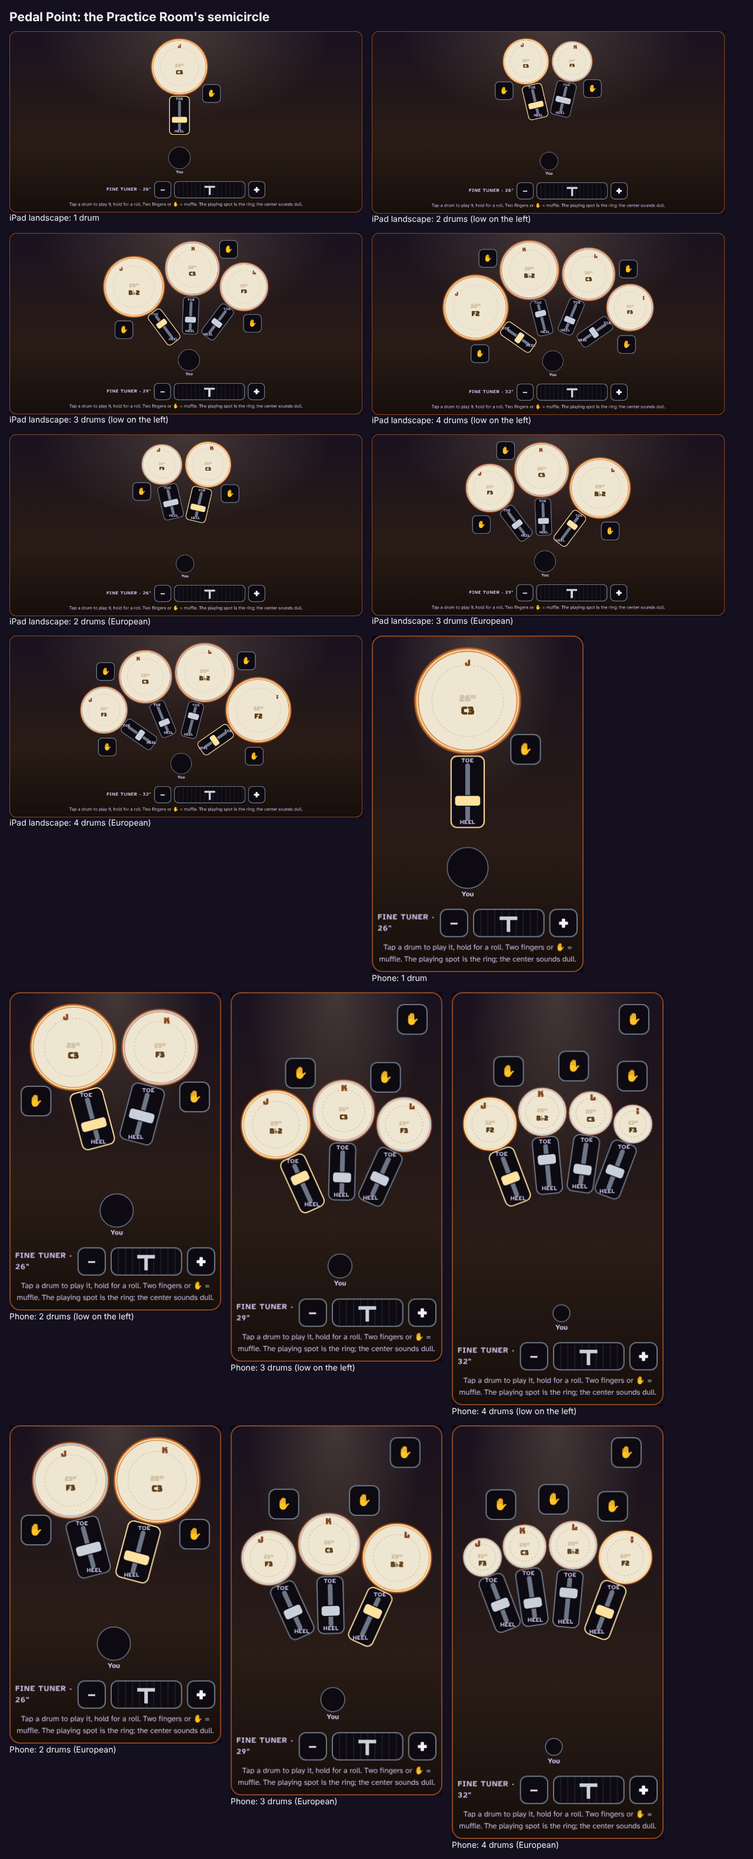
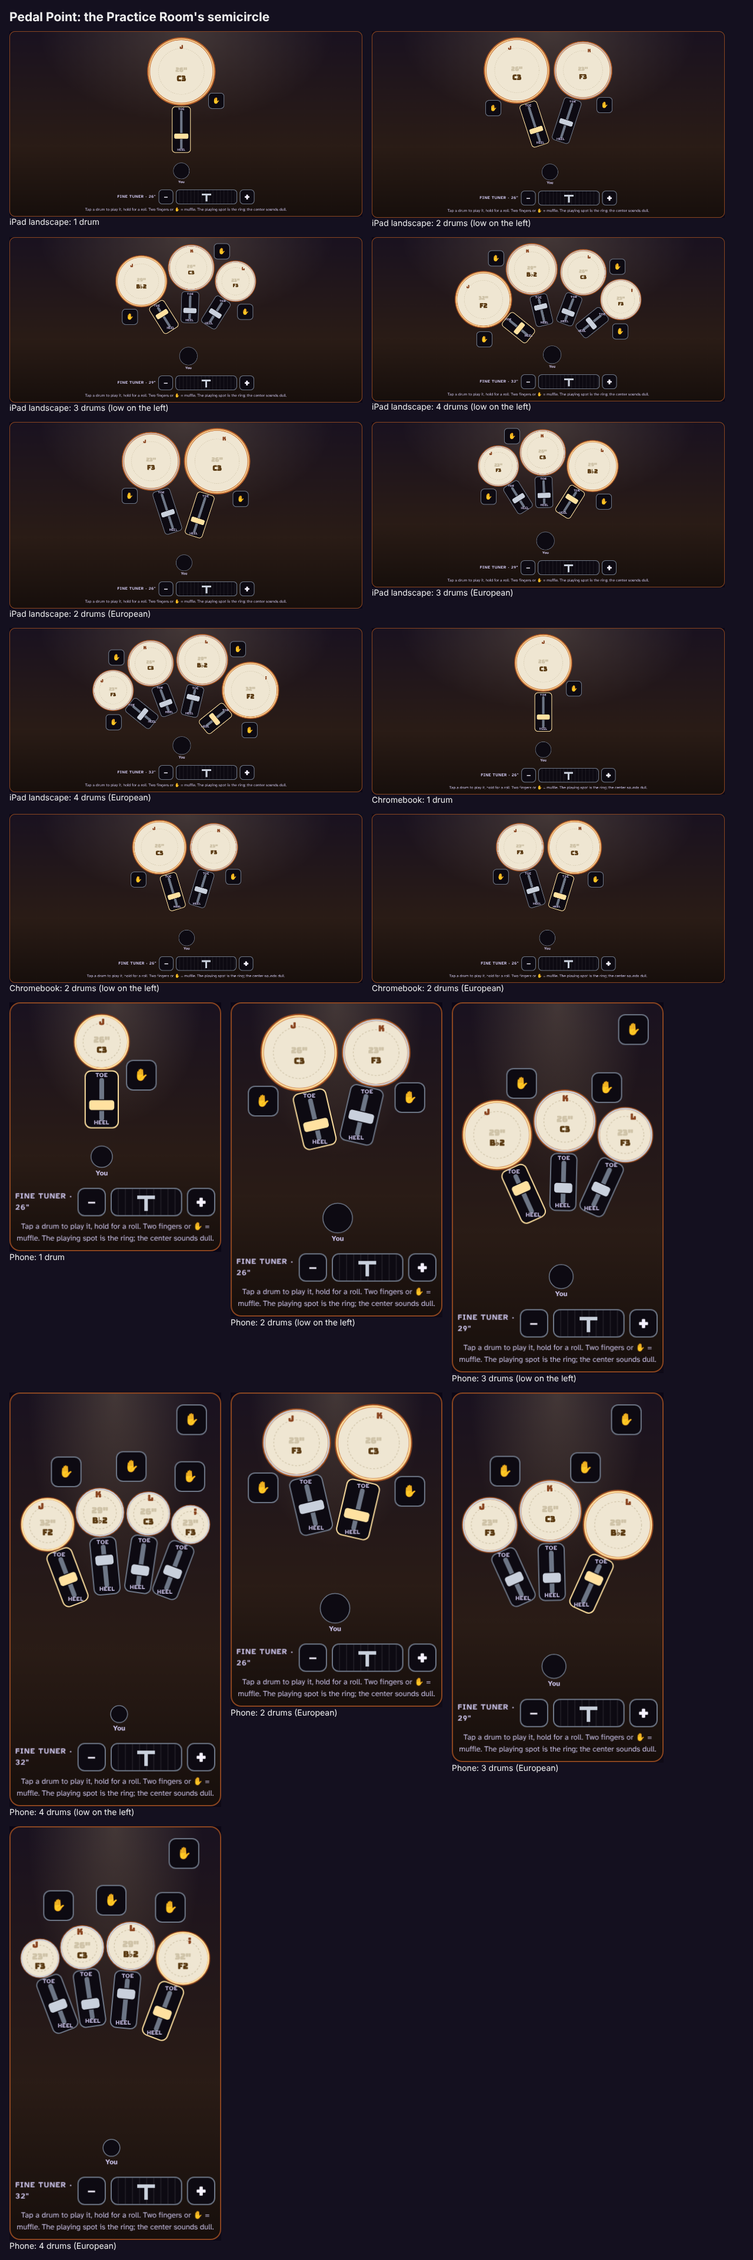
Pedal Point Practice Room: BIG drums with 1 or 2 drums
- Up to ARC.fillN (2) drums, the semicircle's height is the room actually left: from the top of the drums to the
  bottom of the window, less the fine tuner and help line. Never less than maxHMusic with music showing. The whole
  stage fits on screen and the drums use it.
- The pedal and the stool stop growing at ARC.maxPx (200 × 72 px, stool 26 px) and are never under minPx. The
  geometry and overlap checks use the capped sizes. 3–4 drums don't cap and draw exactly as before.
- The head's size label, note and key letter scale with the head (14–40 px).
- It re-fits when the bar or the music above the drums changes size.
- Tests at a Chromebook, an iPad both ways and a phone (1 and 2 drums, US and European): fills the room or the
  width, stage on screen, caps, labels, every semicircle rule. Music: never smaller, the music keeps its height.
  3–4 drums unchanged.
- The Recorded Drums roll test now rolls on the F3 drum, because C3 has one mid take left after the octave-low
  takes were removed.
- GALLERY=1: the semicircle gallery adds 1 and 2 drums at the Chromebook (and iPad landscape at 1180 × 820).
- Docs: FITTING THE SCREEN.

Claude-Session: https://claude.ai/code/session_0124mH3dsFJ8yT3gmHnotTQK

diff --git a/pedal-point/practice.js b/pedal-point/practice.js
@@ -93,20 +93,28 @@
                                  // a screen too narrow for that), a tappable head
     label: 16,                   // px at each end of the pedal for TOE / HEEL (the plate travels between them)
     plate: 18,                   // px: the pedal's plate (along the pedal)
-    maxH: .52, maxHMusic: .36,   // × the window's height: the picture's height (smaller with music showing)
+    maxH: .52, maxHMusic: .36,   // × the window's height: the picture's height (smaller with music showing): 3–4 drums
+    fillN: 2,                    // up to this many drums FILL THE ROOM LEFT: from the top of the drums to the bottom of the
+                                 // window, less the fine tuner and the help line under them (never less than maxHMusic
+                                 // with music showing), so 1 or 2 drums are big
+    maxPx: {pedalL: 200, pedalW: 72, seatR: 26},   // (1–2 drums) the pedal and the stool are for a foot, not to scale:
+                                 // once the drums are big they stop growing at these px
     shrink: .85,                 // a small screen: the gap and the span shrink by up to this before targets do
     pad: 6,                      // px around the picture
   };
   const rad = d => d * Math.PI / 180, deg = r => r * 180 / Math.PI;
   /** the picture for drums of radius rs (inches, left to right) in a box W px wide and at most H px high */
-  function solveArc(rs, W, H) {
+  function solveArc(rs, W, H, {cap = false} = {}) {
     const n = rs.length;
     const build = (s, span, gap, pwPx, tight) => {
-      const w = Math.max(ARC.pedalW, pwPx / s), l = Math.max(ARC.pedalLen, ARC.minPx.pedalL / s), hand = ARC.hand / s;
+      // the pedal and the stool in px: their real size × the scale, at least the finger-sized minimum; capped (big drums)
+      const px = (inch, min, max) => { const v = Math.max(inch * s, min); return cap ? Math.min(v, Math.max(min, max)) : v; };
+      const w = px(ARC.pedalW, pwPx, ARC.maxPx.pedalW) / s, l = px(ARC.pedalLen, ARC.minPx.pedalL, ARC.maxPx.pedalL) / s, hand = ARC.hand / s;
+      const seatR = px(ARC.seatR, 0, ARC.maxPx.seatR) / s;
       const pairs = []; for (let k = 0; k < n - 1; k++) pairs.push(rs[k] + rs[k + 1] + gap);
       const angles = R => pairs.map(c => 2 * Math.asin(Math.min(1, c / (2 * R))));
       const total = R => angles(R).reduce((a, b) => a + b, 0);
-      const base = Math.max(...rs) + ARC.pedalGap + l + ARC.seatGap + ARC.seatR;
+      const base = Math.max(...rs) + ARC.pedalGap + l + ARC.seatGap + seatR;
       let R = base;
       if (n > 1 && total(R) > rad(span)) {               // the span asks for a larger circle: bisect
         let lo = R, hi = R * 50;
@@ -123,13 +131,13 @@
           const toe = [c[0] + u[0] * (r + ARC.pedalGap), c[1] + u[1] * (r + ARC.pedalGap)];
           const heel = [toe[0] + u[0] * l, toe[1] + u[1] * l];
           const side = n === 1 ? 1 : th < -1e-9 ? -1 : 1;                     // the fan's outside (the middle drum: right)
-          return {r, th, c, u, toe, heel, w, l, side};
+          return {r, th, c, u, toe, heel, w, l, side, seatR};
         });
       };
       let ds = place(R), tries = 0;
       while (overlaps(ds) && tries++ < 400) { R *= 1.02; ds = place(R); }
       placeHands(ds, hand, tight);
-      return {R, ds, w, l, hand, span: n > 1 ? deg(ds[n - 1].th - ds[0].th) : 0, limited: n > 1 && deg(ds[n - 1].th - ds[0].th) < span - 3};
+      return {R, ds, w, l, hand, seatR, span: n > 1 ? deg(ds[n - 1].th - ds[0].th) : 0, limited: n > 1 && deg(ds[n - 1].th - ds[0].th) < span - 3};
     };
     const box = g => {
       let x0 = Infinity, y0 = Infinity, x1 = -Infinity, y1 = -Infinity;
@@ -139,7 +147,7 @@
         rectCorners(d.toe, d.heel, d.w).forEach(p => add(p[0], p[1]));
         add(d.hand.c[0] - d.hand.s / 2, d.hand.c[1] - d.hand.s / 2); add(d.hand.c[0] + d.hand.s / 2, d.hand.c[1] + d.hand.s / 2);
       });
-      add(-ARC.seatR, -ARC.seatR); add(ARC.seatR, ARC.seatR + g.youH);
+      add(-g.seatR, -g.seatR); add(g.seatR, g.seatR + g.youH);
       return {x0, y0, x1, y1, w: x1 - x0, h: y1 - y0};
     };
     const fit = (span, gap, pwPx, tight) => {                         // the largest scale (px per inch) whose picture fits; if none fits
@@ -167,8 +175,8 @@
     }
     const s = g.s, ox = g.box.x0, oy = g.box.y0, P = p => [(p[0] - ox) * s + ARC.pad, (p[1] - oy) * s + ARC.pad];
     return {
-      s, R: g.R, span: g.span, limited: g.limited || g.tight, W: Math.ceil(g.box.w * s + 2 * ARC.pad), H: Math.ceil(g.box.h * s + 2 * ARC.pad),
-      seat: {c: P([0, 0]), r: ARC.seatR * s},
+      s, R: g.R, span: g.span, limited: g.limited || g.tight, over: g.box.h * s + 2 * ARC.pad > H + 1, room: H, W: Math.ceil(g.box.w * s + 2 * ARC.pad), H: Math.ceil(g.box.h * s + 2 * ARC.pad),
+      seat: {c: P([0, 0]), r: g.seatR * s},
       drums: g.ds.map(d => ({c: P(d.c), r: d.r * s, th: deg(d.th), toe: P(d.toe), heel: P(d.heel), w: d.w * s, l: d.l * s, u: d.u,
         hand: {c: P(d.hand.c), s: ARC.hand}})),
     };
@@ -187,7 +195,7 @@
     const m = .4;                                        // inches of air
     for (let i = 0; i < ds.length; i++) {
       const a = ds[i];
-      if (segDist([0, 0], a.toe, a.heel) < ARC.seatR + a.w / 2 + m) return true;
+      if (segDist([0, 0], a.toe, a.heel) < a.seatR + a.w / 2 + m) return true;
       for (let j = 0; j < ds.length; j++) {
         const b = ds[j];
         if (i !== j && segDist(b.c, a.toe, a.heel) < b.r + a.w / 2 + m) return true;
@@ -201,7 +209,7 @@
   function placeHands(ds, hand, tight) {
     const rot = (u, t) => [u[0] * Math.cos(t) - u[1] * Math.sin(t), u[0] * Math.sin(t) + u[1] * Math.cos(t)];
     const free = (d, c) => {
-      if (Math.hypot(c[0], c[1]) < ARC.seatR + hand * .75) return false;
+      if (Math.hypot(c[0], c[1]) < d.seatR + hand * .75) return false;
       return ds.every(b => (b === d || Math.hypot(c[0] - b.c[0], c[1] - b.c[1]) >= b.r + hand * .72) &&
         segDist(c, b.toe, b.heel) >= hand * .72 + b.w / 2 && (!b.hand || b === d || Math.hypot(c[0] - b.hand.c[0], c[1] - b.hand.c[1]) >= hand * 1.1));
     };
@@ -228,12 +236,21 @@
      pointing at the seat; one SVG for the shapes, the ✋ buttons and "out of tune" badges on top) ================= */
   let L = null;                                         // the current picture (solveArc, in px inside #prDrums)
   const fx = n => n.toFixed(1);
+  /** the picture's height: 3–4 drums = ARC.maxH (maxHMusic with music); 1–2 drums (fillN) = the room left on screen from
+      the top of the drums (on the page) to the bottom of the window, less what the stage shows under them */
+  function roomH(n, music) {
+    const cap = Math.max(240, innerHeight * (music ? ARC.maxHMusic : ARC.maxH));
+    if (n > ARC.fillN) return cap;
+    const box = $('prDrums'), st = $('prStage'), top = box.getBoundingClientRect().top + scrollY;
+    const under = st.getBoundingClientRect().bottom - box.getBoundingClientRect().bottom;   // the fine tuner, the help, padding
+    const room = innerHeight - top - under - ARC.pad;
+    return Math.max(music ? cap : 240, room);
+  }
   function layout() {
     const box = $('prDrums'), W = box.clientWidth;
     if (!W) return null;
-    const music = $('practice').classList.contains('pr-music');
-    const H = Math.max(240, innerHeight * (music ? ARC.maxHMusic : ARC.maxH));
-    const ord = order(), lay = solveArc(ord.map(o => +o.d.id / 2), W, H);
+    const music = $('practice').classList.contains('pr-music'), ord = order(), H = roomH(ord.length, music);
+    const lay = solveArc(ord.map(o => +o.d.id / 2), W, H, {cap: ord.length <= ARC.fillN});
     const dx = Math.max(0, (W - lay.W) / 2), sh = q => [q[0] + dx, q[1]];
     lay.seat.c = sh(lay.seat.c);
     lay.drums.forEach((d, v) => { d.i = ord[v].i; d.id = ord[v].d.id; d.c = sh(d.c); d.toe = sh(d.toe); d.heel = sh(d.heel); d.hand.c = sh(d.hand.c);
@@ -253,7 +270,7 @@
       `<g class="pr-seat" aria-hidden="true"><circle cx="${fx(L.seat.c[0])}" cy="${fx(L.seat.c[1])}" r="${fx(L.seat.r)}"/>` +
       `<text x="${fx(L.seat.c[0])}" y="${fx(L.seat.c[1] + L.seat.r + 13)}" text-anchor="middle">You</text></g>`];
     L.drums.forEach((d, v) => {
-      const [cx, cy] = d.c, r = d.r, away = [-d.u[0], -d.u[1]], fs = Math.max(11, Math.min(22, r * .2));
+      const [cx, cy] = d.c, r = d.r, away = [-d.u[0], -d.u[1]], clampF = v => Math.max(14, Math.min(40, v)), fs = clampF(r * .22), ks = clampF(r * .15);
       svg.push(`<g class="pr-drum" data-i="${d.i}" data-v="${v}">` +
         `<circle class="pr-cue" cx="${fx(cx)}" cy="${fx(cy)}" r="${fx(r + 6)}"/>` +
         `<g class="pr-pedal" data-i="${d.i}" role="slider" tabindex="-1" aria-label="${d.id} inch drum pedal" aria-valuemin="0" aria-valuemax="100" transform="translate(${fx(d.toe[0])} ${fx(d.toe[1])}) rotate(${fx(d.th)})">` +
@@ -265,9 +282,9 @@
         `<g class="pr-head" data-i="${d.i}" role="button" tabindex="-1" aria-label="${d.id} inch drum: tap to play, hold to roll" transform="translate(${fx(cx)} ${fx(cy)})">` +
           `<circle class="pr-rim" r="${fx(r)}"/><circle class="pr-hoop" r="${fx(r * .95)}"/><circle class="pr-skin" r="${fx(r * .92)}"/>` +
           `<circle class="pr-spot" r="${fx(r * .92 * T.TIMPANI.spot)}"/><circle class="pr-ripple" r="${fx(r * .4)}"/>` +
-          `<text class="pr-sz" y="${fx(-fs * .15)}" style="font-size:${fx(fs * .8)}px">${d.id}"</text>` +
+          `<text class="pr-sz" y="${fx(-fs * .15)}" style="font-size:${fx(clampF(fs * .8))}px">${d.id}"</text>` +
           `<text class="pr-note" id="prNote${d.i}" y="${fx(fs * 1.05)}" style="font-size:${fx(fs)}px"></text>` +
-          `<text class="pr-key" x="${fx(away[0] * r * .7)}" y="${fx(away[1] * r * .7)}">${(keys[v] || '').toUpperCase()}</text></g></g>`);
+          `<text class="pr-key" x="${fx(away[0] * r * .7)}" y="${fx(away[1] * r * .7)}" style="font-size:${fx(ks)}px">${(keys[v] || '').toUpperCase()}</text></g></g>`);
     });
     svg.push('</svg>');
     const html = L.drums.map(d => {
@@ -289,12 +306,11 @@
     cancelAnimationFrame(relayT);
     relayT = requestAnimationFrame(() => {
       if (!S.open || !L) return;
-      const box = $('prDrums'), music = $('practice').classList.contains('pr-music');
-      const H = Math.max(240, innerHeight * (music ? ARC.maxHMusic : ARC.maxH));
+      const box = $('prDrums'), music = $('practice').classList.contains('pr-music'), H = roomH(order().length, music);
       if (L.key.split('|').slice(0, 3).join('|') !== [box.clientWidth, Math.round(H), music].join('|') && !Object.keys(S.presses).length) draw();
     });
   }
-  if (window.ResizeObserver) new ResizeObserver(relayout).observe($('prDrums'));
+  if (window.ResizeObserver) { const ro = new ResizeObserver(relayout); ['prDrums', 'prScore', 'prBar'].forEach(id => ro.observe($(id))); }   // the room above the drums changes too
   addEventListener('resize', relayout); addEventListener('orientationchange', relayout);
   const drumL = i => L && L.drums.find(d => d.i === i);
   function drawDrum(i) {
@@ -958,7 +974,7 @@
     arc: () => {
       if (!L) return null;
       const b = $('prDrums').getBoundingClientRect(), P = q => ({x: b.left + q[0], y: b.top + q[1]});
-      return {s: L.s, R: L.R, span: L.span, limited: L.limited, box: {x: b.left, y: b.top, w: b.width, h: b.height},
+      return {s: L.s, R: L.R, span: L.span, limited: L.limited, over: L.over, room: L.room, box: {x: b.left, y: b.top, w: b.width, h: b.height},
         seat: Object.assign(P(L.seat.c), {r: L.seat.r}),
         drums: L.drums.map(d => ({i: d.i, id: d.id, c: P(d.c), r: d.r, th: d.th, u: d.u, toe: P(d.toe), heel: P(d.heel), w: d.w, l: d.l, track: d.track,
           hand: Object.assign(P(d.hand.c), {size: d.hand.s})}))};

diff --git a/tests/pedal-point-practice.spec.js b/tests/pedal-point-practice.spec.js
@@ -614,10 +614,10 @@ for (const [name, vp, min, minMusic] of [['phone', {width: 390, height: 844}, 60
 test('gallery: docs/gallery/pedal-point-semicircle.png', async ({page, browserName}) => {
   test.skip(!process.env.GALLERY || browserName !== 'chromium', 'GALLERY=1 only');
   const shots = [];
-  for (const [label, vp] of [['iPad landscape', {width: 1024, height: 768}], ['Phone', {width: 390, height: 844}]]) {
+  for (const [label, vp, ns] of [['iPad landscape', {width: 1180, height: 820}, [1, 2, 3, 4]], ['Chromebook', {width: 1366, height: 768}, [1, 2]], ['Phone', {width: 390, height: 844}, [1, 2, 3, 4]]]) {
     await page.setViewportSize(vp);
     await room(page);
-    for (const order of ['us', 'eu']) for (const n of [1, 2, 3, 4]) {
+    for (const order of ['us', 'eu']) for (const n of ns) {
       if (order === 'eu' && n === 1) continue;
       await page.evaluate(([o, n]) => { const p = Arcade.PedalPoint.practice; Arcade.store.gameData('pedal-point').practice.order = o; n === 4 ? p.applyPreset('four') : p.setCount(n); }, [order, n]);
       await page.waitForTimeout(100);
@@ -658,9 +658,10 @@ test('THE RECORDED DRUMS in the Practice Room: a held roll alternates takes and 
   const watch = await room(page, device('trumpet', {gameData: {'pedal-point': {drumSound: 'samples'}}}));
   expect(await page.evaluate(() => [Arcade.Timpani.engine(), Arcade.Timpani.test.fakeBuffers()])).toEqual(['samples', true]);   // made-up takes: any browser
   const h0 = await page.evaluate(() => Arcade.Timpani.test.history.length);
-  await page.keyboard.down('j');
+  // the F3 drum (K): two mid takes near F3 take turns (C3 has one mid take left since the octave-low ones went: it repeats)
+  await page.keyboard.down('k');
   await page.waitForTimeout(700);
-  await page.keyboard.up('j');
+  await page.keyboard.up('k');
   const roll = await page.evaluate(n => Arcade.Timpani.test.history.slice(n).filter(h => h.kind === 'strike' && h.played), h0);
   expect(roll.length).toBeGreaterThan(5);
   roll.forEach(h => expect(h.engine).toBe('samples'));
@@ -836,3 +837,70 @@ for (const [name, vp] of [['phone', {width: 390, height: 844}], ['iPad portrait'
     watch.check();
   });
 }
+
+/* ===== BIG DRUMS: 1 or 2 drums fill the room left on screen (ARC.fillN); the pedal and the stool stop growing (maxPx) ===== */
+for (const [name, vp] of [['Chromebook', {width: 1366, height: 768}], ['iPad landscape', {width: 1180, height: 820}], ['iPad portrait', {width: 820, height: 1180}], ['phone', {width: 390, height: 844}]]) {
+  test(`BIG DRUMS (${name}): 1 and 2 drums fill the room (or the width), the stage stays on screen, pedals ≤ 200 × 72 px, labels ≥ 14 px`, async ({page}) => {
+    await page.setViewportSize(vp);
+    const watch = await room(page);
+    const ARC = await page.evaluate(() => Arcade.PedalPoint.practice.ARC);
+    for (const [n, order] of [[1, 'us'], [2, 'us'], [2, 'eu']]) {
+      await page.evaluate(([n, o]) => { const p = Arcade.PedalPoint.practice; Arcade.store.gameData('pedal-point').practice.order = o; p.setCount(n); window.scrollTo(0, 0); }, [n, order]);
+      const a = await ARC_OF(page);
+      expect(checkArc(a, ARC, {eu: order === 'eu'}), `${n} drums ${order}`).toEqual([]);
+      const r = await page.evaluate(() => {
+        const st = document.getElementById('prStage').getBoundingClientRect(), xs = [];
+        document.querySelectorAll('#prDrums .pr-rim, #prDrums .pr-ped, #prDrums .pr-hand').forEach(e => { const b = e.getBoundingClientRect(); xs.push(b.left, b.right); });
+        return {stageBottom: st.bottom, win: innerHeight, picW: Math.max(...xs) - Math.min(...xs),
+          font: Math.min(...[...document.querySelectorAll('#prDrums .pr-sz, #prDrums .pr-note')].map(t => parseFloat(getComputedStyle(t).fontSize)))};
+      });
+      // the room or the width: whichever limits, at least 90 % of it is used
+      const usesH = a.box.h >= .9 * a.room, usesW = r.picW >= .9 * a.box.w;
+      expect(usesH || usesW, `${n} drums: ${Math.round(a.box.h)} of ${Math.round(a.room)} px high, ${Math.round(r.picW)} of ${Math.round(a.box.w)} wide`).toBe(true);
+      // the whole stage on the screen (unless even the smallest the targets allow is taller than the room: the page scrolls)
+      if (!a.over) {
+        expect(r.stageBottom, `${n} drums: the stage ends below the window`).toBeLessThanOrEqual(r.win + 1);
+        a.drums.forEach(d => expect(Math.max(d.toe.y, d.heel.y) + d.w / 2).toBeLessThanOrEqual(r.win + 1));
+      }
+      a.drums.forEach(d => {
+        expect(d.l).toBeLessThanOrEqual(ARC.maxPx.pedalL + .5); expect(d.w).toBeLessThanOrEqual(ARC.maxPx.pedalW + .5);
+        expect(d.l).toBeGreaterThanOrEqual(ARC.minPx.pedalL - .5); expect(d.w).toBeGreaterThanOrEqual(ARC.minPx.pedalW2 - .5);
+      });
+      expect(a.seat.r).toBeLessThanOrEqual(ARC.maxPx.seatR + .5);
+      expect(r.font).toBeGreaterThanOrEqual(14);
+      expect(await tooWide(page)).toEqual([]);
+    }
+    // 3 and 4 drums: exactly as before (ARC.maxH, no caps)
+    for (const n of [3, 4]) {
+      await page.evaluate(n => Arcade.PedalPoint.practice.setCount(n), n);
+      const r = await page.evaluate(() => {
+        const p = Arcade.PedalPoint.practice, a = p.arc(), ds = p.state().drums, W = document.getElementById('prDrums').clientWidth;
+        const order = Arcade.store.gameData('pedal-point').practice.order === 'eu' ? -1 : 1;
+        const rs = ds.map(d => +d.id / 2).sort((x, y) => order * (y - x));
+        const old = p.solveArc(rs, W, Math.max(240, innerHeight * p.ARC.maxH));
+        return {s: a.s, old: old.s, h: a.box.h, oldH: old.H};
+      });
+      expect(r.s, `${n} drums`).toBeCloseTo(r.old, 6);
+      expect(Math.abs(r.h - r.oldH)).toBeLessThanOrEqual(1);
+    }
+    watch.check();
+  });
+}
+
+test('BIG DRUMS with the music showing (1 drum): never smaller than before, and the music keeps its height', async ({page}) => {
+  await page.setViewportSize({width: 1180, height: 820});
+  const watch = await room(page);
+  await page.evaluate(() => Arcade.PedalPoint.practice.setCount(4));
+  await page.locator('#prShow [data-show="sheet"]').click();
+  const view4 = await page.locator('#prView').evaluate(e => e.getBoundingClientRect().height);
+  await page.evaluate(() => Arcade.PedalPoint.practice.setCount(1));
+  await expect.poll(() => page.evaluate(() => Arcade.PedalPoint.practice.arc().drums.length)).toBe(1);
+  const r = await page.evaluate(() => {
+    const p = Arcade.PedalPoint.practice, a = p.arc(), W = document.getElementById('prDrums').clientWidth;
+    const before = p.solveArc([+p.state().drums[0].id / 2], W, Math.max(240, innerHeight * p.ARC.maxHMusic));
+    return {r: a.drums[0].r, before: before.drums[0].r, view: document.getElementById('prView').getBoundingClientRect().height};
+  });
+  expect(r.r).toBeGreaterThanOrEqual(r.before - .5);
+  expect(r.view).toBeCloseTo(view4, 0);
+  watch.check();
+});

diff --git a/docs/games/pedal-point.md b/docs/games/pedal-point.md
@@ -89,7 +89,12 @@ Each level starts with its intro (`UI.intro`: the idea in one paragraph, LET'S T
 - THE SEMICIRCLE (the `ARC` block in practice.js; `solveArc()`): the drums are drawn top-down IN A SEMICIRCLE AROUND THE PLAYER, as timpanists set up (Mr. Graham's 4-drum diagram: 32", 29", 26", 23" left to right, the middle two farthest, the outer two curving round toward the player's sides). The PLAYER'S SEAT is a point at the bottom middle, drawn as a small stool with "You" under it. Every drum's CENTER sits on one circle of radius R around it, so every drum is the same reach away. Each drum's PEDAL is a rectangle on the line from the drum's center to the seat: it starts just outside the rim (`pedalGap` .5 in), and its long axis aims exactly at the seat (TOE at the drum, HEEL toward the player). The feet find the pedals without looking.
   - THE NUMBERS (inches, the drums' real sizes, then the whole picture is scaled to fit): heads in proportion 32 : 29 : 26 : 23; `gap` 1.5 in between neighbors' rims; `span` = the angle from the first to the last drum's center, seen from the seat: 1 drum 0° (straight ahead), 2 drums 50°, 3 drums 95°, 4 drums 130°; `pedalLen` 17.4 in (0.6 × a 29" head), `pedalW` 7 in; the stool `seatR` 5 in, `seatGap` 2.5 in.
   - SOLVING R: neighbors a and b are `2·asin((r_a + r_b + gap) / 2R)` apart, and R is bisected so those angles add up to `span`; the fan is centered on straight ahead. R never goes below the room for the biggest drum + its pedal + the stool. It also grows until no pedal touches the stool, another drum's head or another pedal. When that limits it, the span simply comes out smaller (`arc().limited`): the pedals all point at one seat, so their heel ends converge. With 2 drums the span is about 36°, with 4 about 110° on an iPad or a Chromebook.
-  - FITTING THE SCREEN: everything (heads, pedals, ✋ buttons, the stool) is scaled to `#prDrums`'s width and at most `maxH` (52 % of the window's height; `maxHMusic` 36 % with the sheet music or an etude showing). It is drawn again on a new width, height or orientation (a ResizeObserver, one frame later). Finger-sized targets never shrink with the drums:
+  - FITTING THE SCREEN: everything (heads, pedals, ✋ buttons, the stool) is scaled to `#prDrums`'s width and a height.
+    - 3–4 drums: at most `maxH` (52 % of the window's height; `maxHMusic` 36 % with the sheet music or an etude showing).
+    - BIG DRUMS, 1–2 drums (`ARC.fillN` 2): the height is THE ROOM LEFT (`roomH`): from the top of `#prDrums` on the page to the bottom of the window, less what the stage shows under the drums (the fine tuner, the help line, its padding) and `pad`. The whole stage fits on the screen with no page scroll, and the drums use it all. With music showing, the room is what's left after the music's own height, never less than `maxHMusic`. A phone in portrait with 2 drums is limited by the width instead, or, when even the smallest picture the finger-sized targets allow is taller than the room, the page scrolls (`arc().over`).
+    - At that size the finger-sized parts stop growing: `ARC.maxPx` = {pedalL 200, pedalW 72, seatR 26} px. In `build`, the pedal's length and width and the stool's radius are min(inch size × scale, maxPx), and never under `minPx`. The geometry and `overlaps()` use the capped sizes. 3–4 drums don't cap, so they draw exactly as before.
+    - The head's writing grows with it: the size label, the note / gauge and the key letter take their font size from the head's radius, clamped 14–40 px.
+    - It re-fits when the drum count changes, the music shows or hides, the window resizes or turns, or the bar or music above the drums changes size (one ResizeObserver on `#prDrums`, `#prScore` and `#prBar`). It is drawn again on a new width, height or orientation (a ResizeObserver, one frame later). Finger-sized targets never shrink with the drums:
     - pedals at least `minPx.pedalW` 56 px wide (44 on a screen too narrow for that) and `minPx.pedalL` 96 px long; the ✋ 52 px;
     - a small screen first tightens the fan (`gap` and `span` × `shrink` .85), then uses 44 px pedals, then lets the picture grow taller (the page scrolls) rather than make a target smaller.
   - THE ✋ MUFFLE BUTTON sits just outside the rim, `handTurn` 50° round from the pedal to the outside of the fan. Where that spot is taken (small screens: the buttons are a finger's size, not the drums' scale), it takes the next free spot further round.
